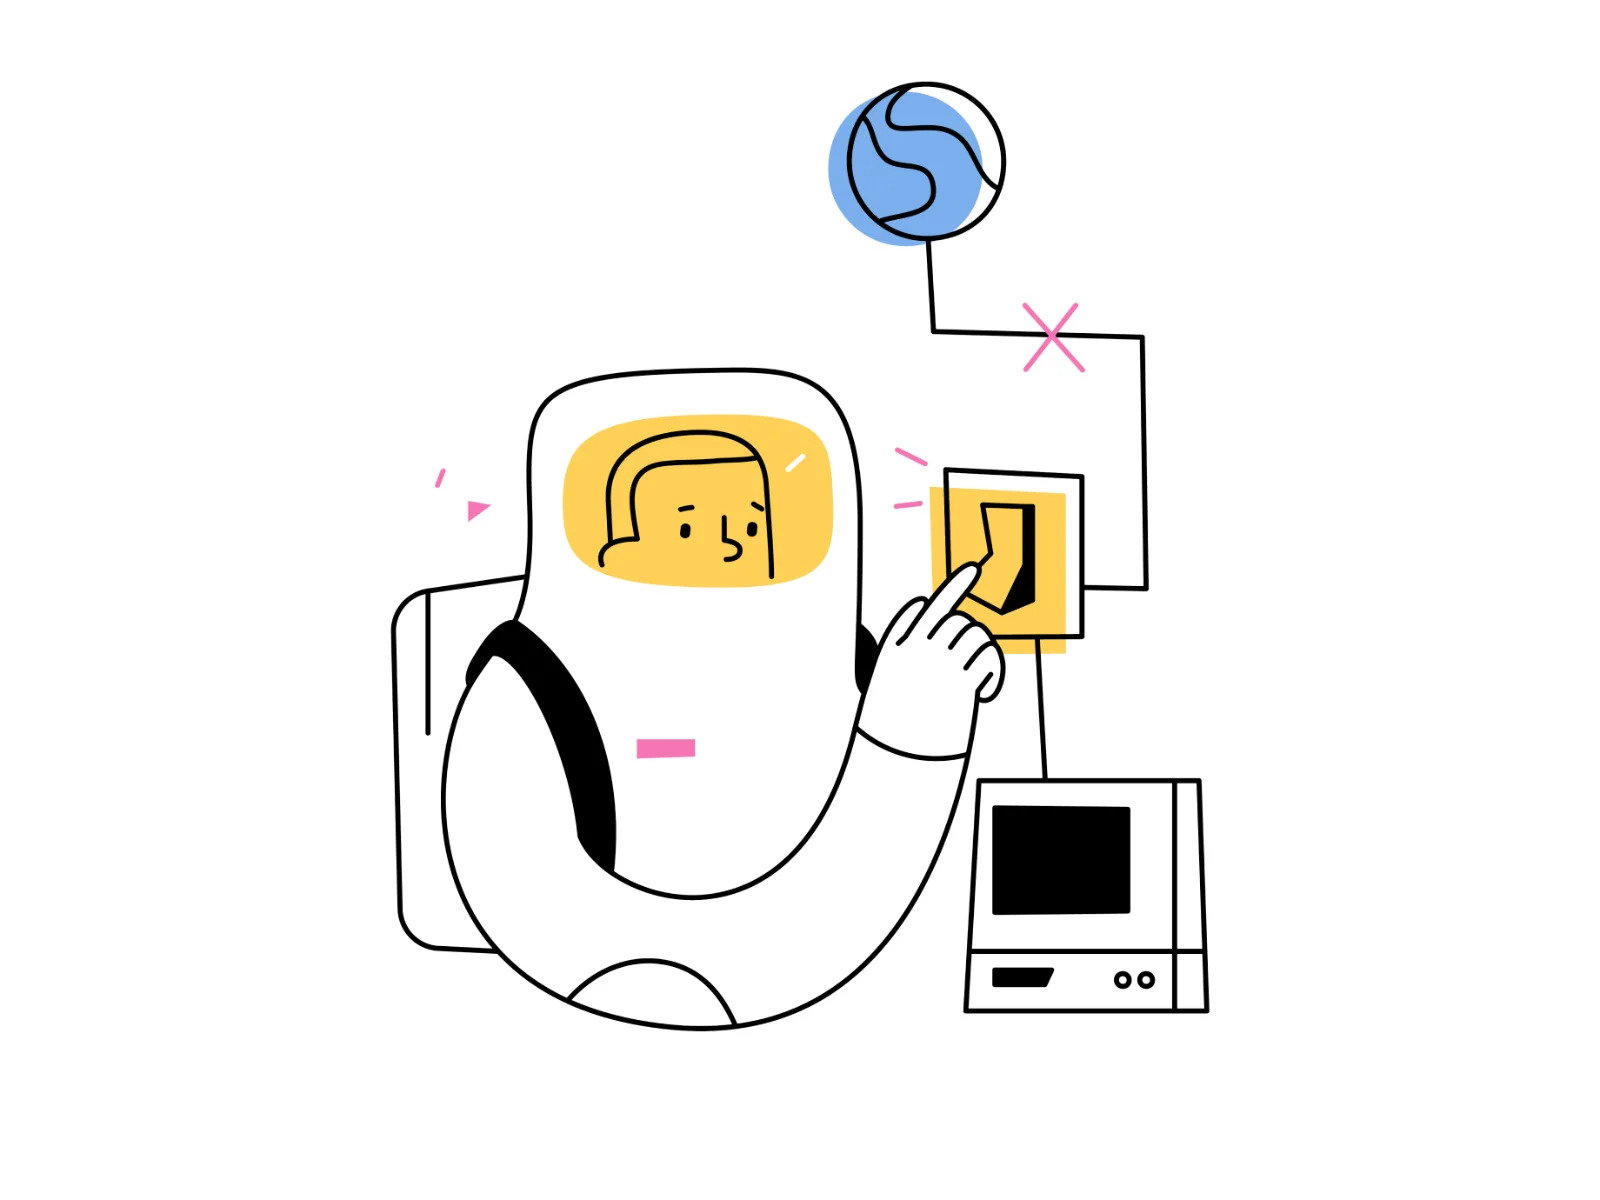
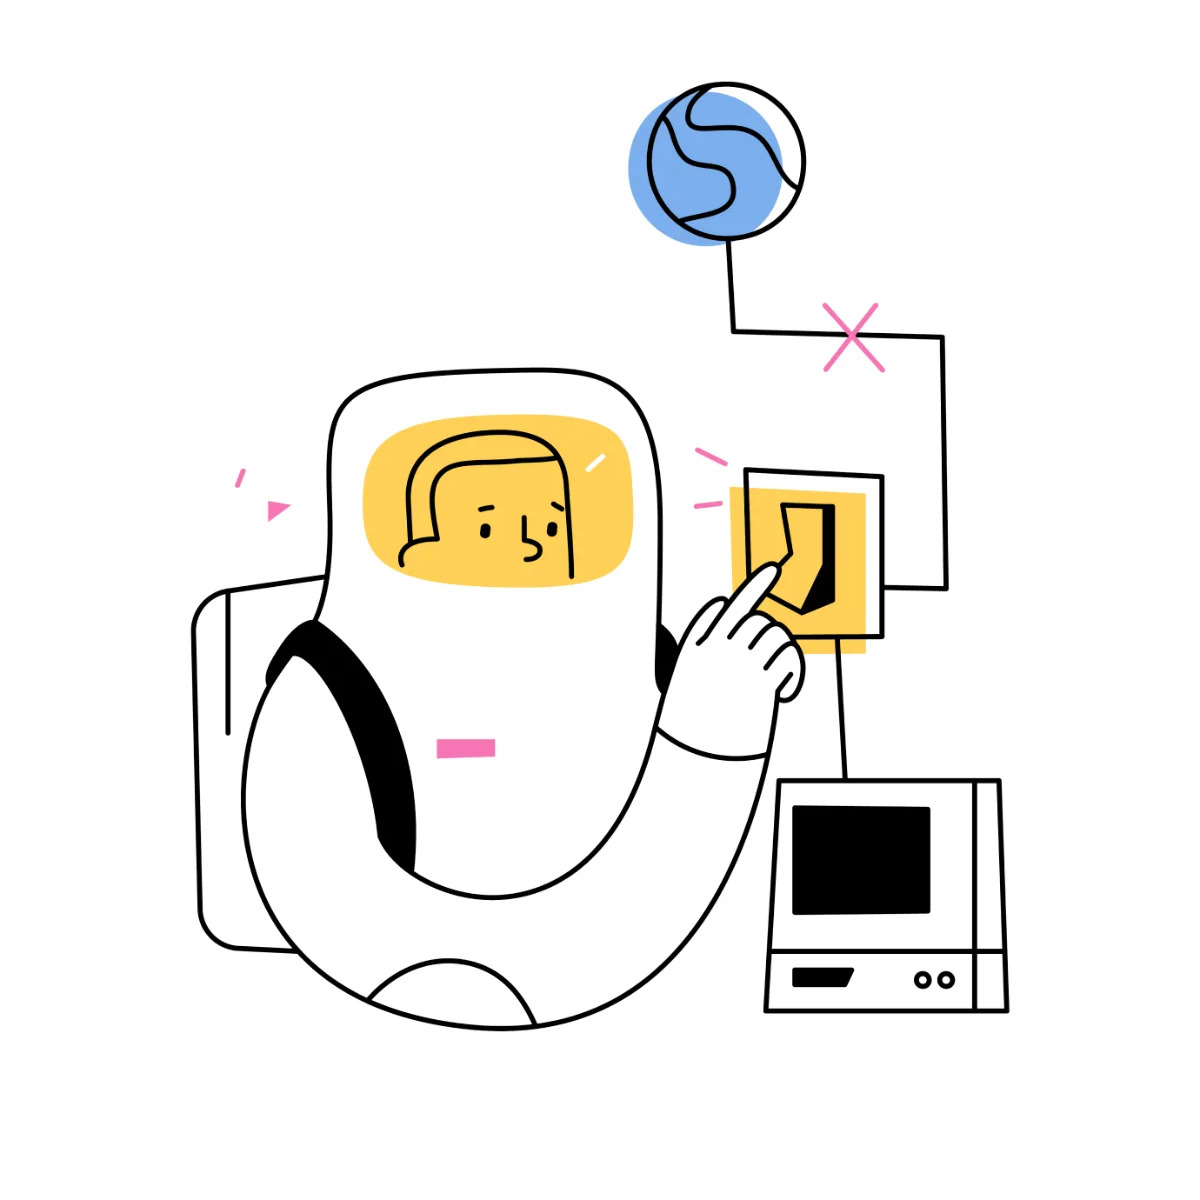
Style header image and input

Changed region(s): [[0.1542, 0.0617, 0.8633, 0.8633], [0.4625, 0.7092, 0.4933, 0.74]]

diff --git a/css/style.css b/css/style.css
@@ -14,7 +14,12 @@ body {
   font-weight: 300; }
 
 h1 {
-  font-size: 8rem; }
+  font-size: 8rem;
+  font-weight: 600;
+  line-height: 1; }
+
+h3 {
+  font-size: 2.5rem; }
 
 .navbar {
   display: flex;
@@ -62,13 +67,37 @@ h1 {
   display: grid;
   width: 100%;
   height: calc(100vh - 7rem);
-  grid-template-columns: 1fr 2fr;
+  grid-template-columns: 1fr max-content;
   grid-template-rows: 1fr min-content min-content 1fr;
-  padding: 10rem 20rem;
-  background-color: aquamarine; }
+  padding: 10rem 30rem;
+  grid-row-gap: 3rem;
+  grid-column-gap: 5rem; }
   .header__img {
-    width: 100%;
+    width: 40vw;
     grid-column: 2 / 3;
     grid-row: 1 / -1; }
   .header__tagline {
     align-self: end; }
+  .header__signup {
+    display: grid;
+    width: 100%;
+    grid-template-columns: 1fr max-content;
+    grid-column-gap: 2rem; }
+  .header__input {
+    border: none;
+    padding: 1.5rem 2rem;
+    border-radius: 10px;
+    background-color: #f0f5f9;
+    transition: all 0.2s;
+    font-size: 1.7rem; }
+    .header__input::placeholder {
+      color: #777777; }
+    .header__input:focus {
+      outline: none;
+      box-shadow: rgba(0, 0, 0, 0.1) 0 1rem 5rem; }
+  .header__disclaimer {
+    color: #aaaaaa;
+    font-size: 1.7rem; }
+    .header__disclaimer a:link,
+    .header__disclaimer a:visited {
+      color: #888888; }

diff --git a/sass/layout/_header.scss b/sass/layout/_header.scss
@@ -2,19 +2,54 @@
   display: grid;
   width: 100%;
   height: calc(100vh - 7rem);
-  grid-template-columns: 1fr 2fr;
+  grid-template-columns: 1fr max-content;
   grid-template-rows: 1fr min-content min-content 1fr;
-  padding: 10rem 20rem;
-
-  background-color: aquamarine;
+  padding: 10rem 30rem;
+  grid-row-gap: 3rem;
+  grid-column-gap: 5rem;
 
   &__img {
-    width: 100%;
+    width: 40vw;
     grid-column: 2 / 3;
     grid-row: 1 / -1;
   }
 
   &__tagline {
     align-self: end;
+  }
+
+  &__signup {
+    display: grid;
+    width: 100%;
+    grid-template-columns: 1fr max-content;
+    grid-column-gap: 2rem;
+  }
+
+  &__input {
+    border: none;
+    padding: 1.5rem 2rem;
+    border-radius: 10px;
+    background-color: #f0f5f9;
+    transition: all 0.2s;
+    font-size: 1.7rem;
+
+    &::placeholder {
+      color: #777777;
+    }
+
+    &:focus {
+      outline: none;
+      box-shadow: rgba(0, 0, 0, 0.1) 0 1rem 5rem;
+    }
+  }
+
+  &__disclaimer {
+    color: #aaaaaa;
+    font-size: 1.7rem;
+
+    a:link,
+    a:visited {
+      color: #888888;
+    }
   }
 }

diff --git a/index.html b/index.html
@@ -6,7 +6,7 @@
     <meta name="viewport" content="width=device-width, initial-scale=1.0" />
     <title>Marketent</title>
     <link
-      href="https://fonts.googleapis.com/css2?family=Inter:wght@300;400;500;700;800&display=swap"
+      href="https://fonts.googleapis.com/css2?family=Inter:wght@300;400;500;600;700;800&display=swap"
       rel="stylesheet"
     />
     <link rel="stylesheet" href="css/style.css" />
@@ -51,8 +51,8 @@
         <button class="btn btn__primary">Sign up &rarr;</button>
       </div>
       <p class="header__disclaimer">
-        By clicking this button, you confirm that you agree to the
-        <a href="#">Terms and Consitions</a>
+        By clicking this button, you are confirming that you agree to the
+        <a href="#">Terms and Conditions</a>
       </p>
       <img
         src="img/astronaut.jpg"

diff --git a/sass/base/_typography.scss b/sass/base/_typography.scss
@@ -1,6 +1,9 @@
 h1 {
   font-size: 8rem;
+  font-weight: 600;
+  line-height: 1;
 }
 
 h3 {
+  font-size: 2.5rem;
 }
